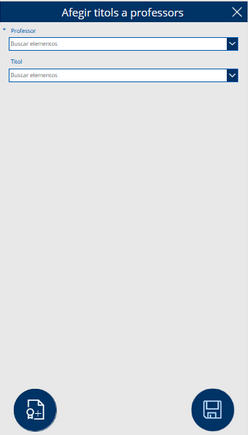
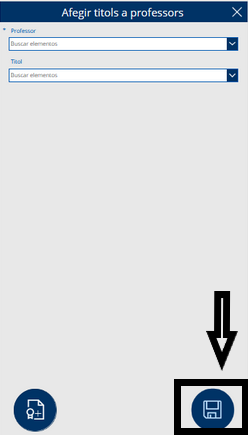
Desenvolupament del projecte acabat

Changed region(s): [[0.6774, 0.6575, 1.0, 1.0]]

diff --git a/3--Webs2-PowerApps/afegir_titol.md b/3--Webs2-PowerApps/afegir_titol.md
@@ -4,7 +4,23 @@
 
 ![Afegir titols a professors](../.Images/powerapps/afegir_titols_profes.png)
 
+<br>
+
+<p>Botó de guardar dades --> Envia el formulari a la llista de títols acadèmics i guarda l'informació</p>
+
+![Guardar](../.Images/powerapps/afegir_titols_profes%20-%20copia%20(2).png)
+
+![Guardar](../.Images/powerapps/submit.png)
+
+<p>Si les dades són introduïdes correctament, l'aplicació retorna a la pantalla anterior.</p>
+
+![On succes](../.Images/powerapps/onsucces.png)
+
+<br>
+
 <p>Botó d'afegir títol --> Canvia a la pantalla 'AfegirTitol' i inicialitza un nou formulari denominat 'FormAfegirTitol'.</p>
 
-![](../.Images/powerapps/)
+![Botó d'afegir títol](../.Images/powerapps/afegir_titols_profes%20-%20copia.png)
+
+![Botó d'afegir títol](../.Images/powerapps/afegir_titol.png)
 

diff --git a/3--Webs2-PowerApps/afegir_titol2.md b/3--Webs2-PowerApps/afegir_titol2.md
@@ -1,0 +1,9 @@
+# Formulari per afegir un nou formulari a les llistes
+
+<p>Pantalla destinada a afegir nous títols, on es poden introduir el tipus i el nom del títol. Aquesta pantalla inclou un botó per tornar a la pantalla anterior i un altre botó per afegir el títol especificat.</p>
+
+![Afegir titol](../.Images/powerapps/afegir_titol2.png)
+
+<p>Si les dades són introduïdes correctament, l'aplicació canviarà automàticament a la pantalla anterior.</p>
+
+![](../.Images/powerapps/on%20success%20final.png)
